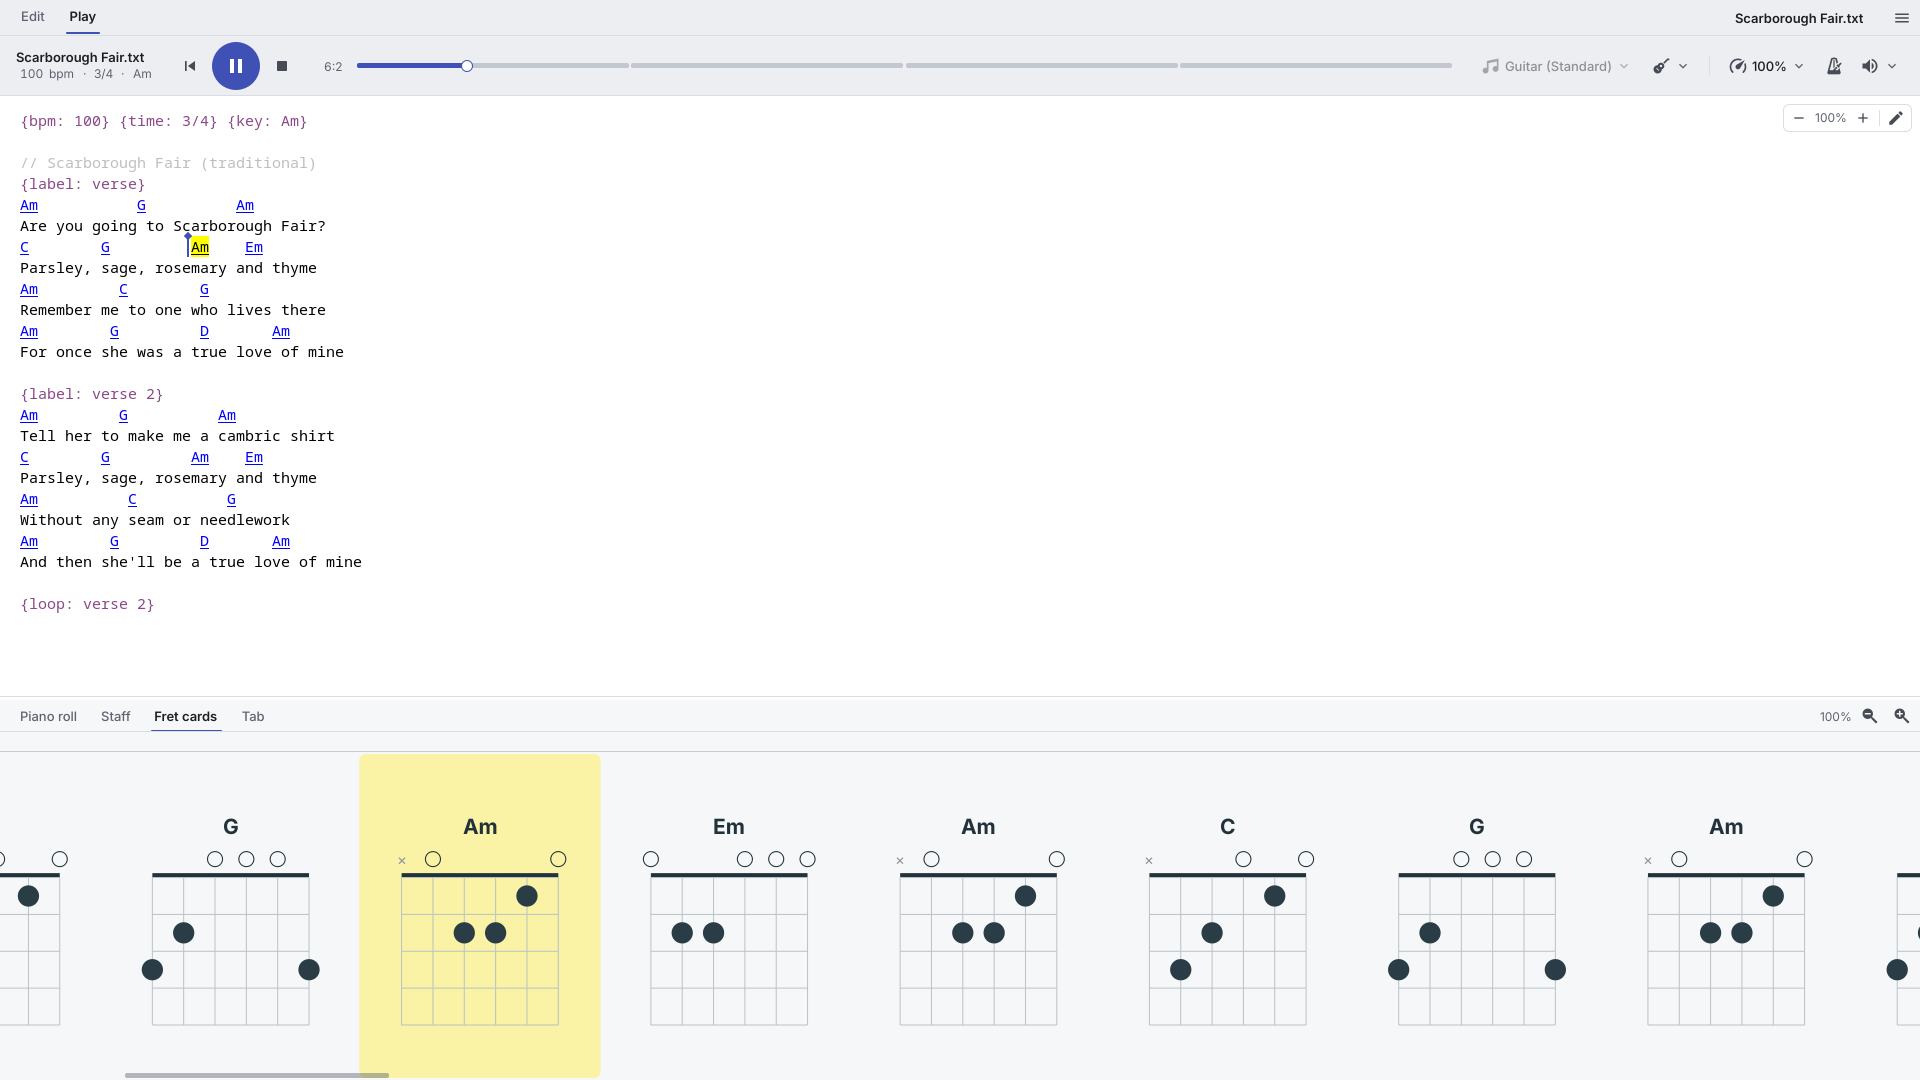
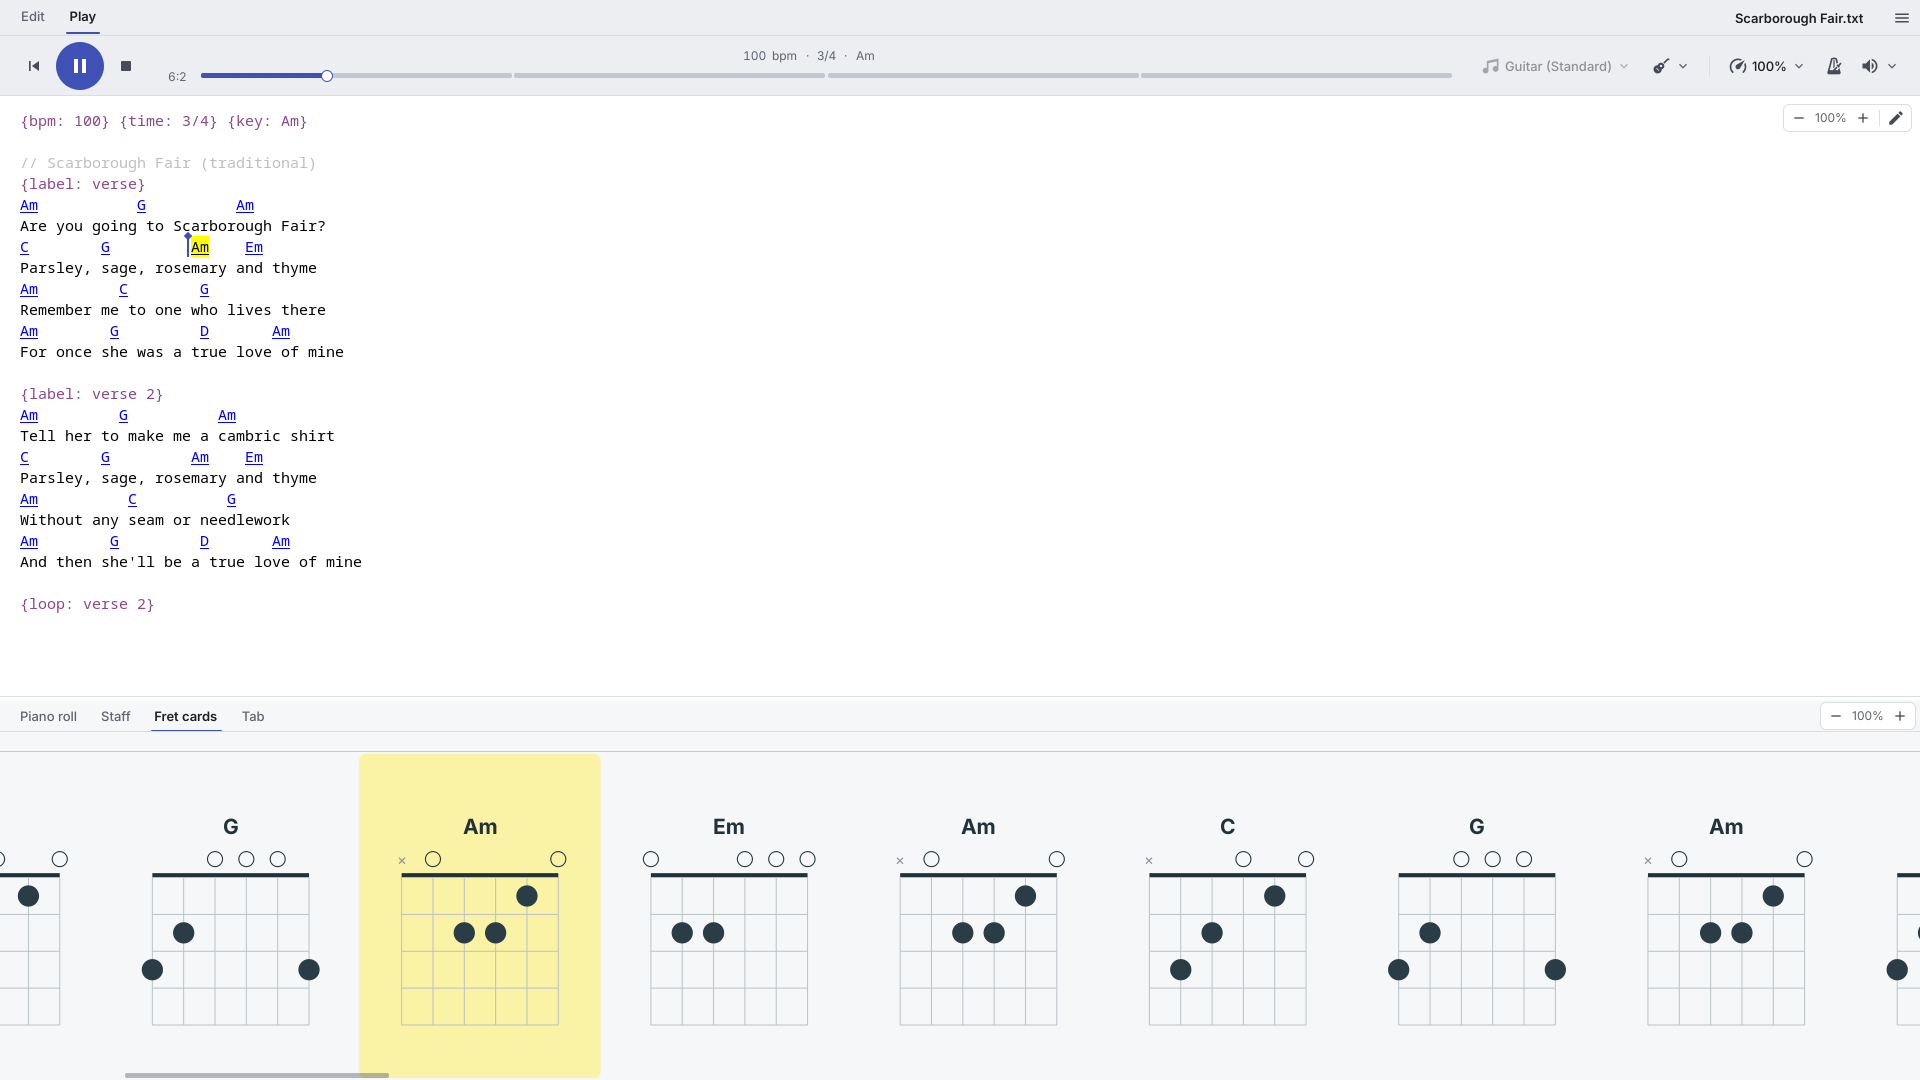
Desktop screenshots: retaken after the polish round
Every desktop help, Quick Start and store shot shows today's window: the
status bar, the Capo button, the zoom pills, the piano roll, the staff,
fret cards and Settings with the built-in voicings. The numbered Play
shot's callout 1 pointed at the player bar's title block, which is gone;
it now marks the song's values, left of them so it doesn't cover the
timeline's callout, and the legend says so.

Changed region(s): [[0.0938, 0.0306, 0.75, 0.0917], [0.0, 0.0306, 0.0625, 0.0917], [0.9375, 0.6417, 1.0, 0.6722]]

diff --git a/packaging/tools/qt_help_screenshots.py b/packaging/tools/qt_help_screenshots.py
@@ -407,7 +407,7 @@ def _edit_window(sc: Scene):
 
 
 @shot("play-window-labeled", "getting started", "Play mode while a song plays, numbered.",
-      callouts=[(1, "titleBlock", 0.5, 1.0, "playerBar"), (2, "prevButton", 0.5, 1.0, "playerBar"),
+      callouts=[(1, "songValues", -0.12, 0.5, "playerBar"), (2, "prevButton", 0.5, 1.0, "playerBar"),
                 (3, "playButton", 0.5, 1.0, "playerBar"), (4, "stopButton", 0.5, 1.0, "playerBar"),
                 (5, "timeline", 0.5, 1.0, "playerBar"), (6, "position", 0.5, 1.0, "playerBar"),
                 (7, "voicingTip", 0.5, 1.0, "playerBar"), (8, "instrumentButton", 0.5, 1.0, "playerBar"),

diff --git a/help/interface.rst b/help/interface.rst
@@ -38,7 +38,7 @@ The User Interface
    .. platform-figure:: play-window-labeled
       :platforms: desktop
       :alt: The Play workspace while a song plays, with numbered callouts on
-            the player bar: 1 the song's name and values, 2 back to the start,
+            the player bar: 1 the song's values, 2 back to the start,
             3 play and pause, 4 stop, 5 the timeline, 6 the position, 7 the
             voicing, 8 the instrument, 9 the speed, 10 the metronome, 11 the
             volume, and 12 the chord sheet's views.
